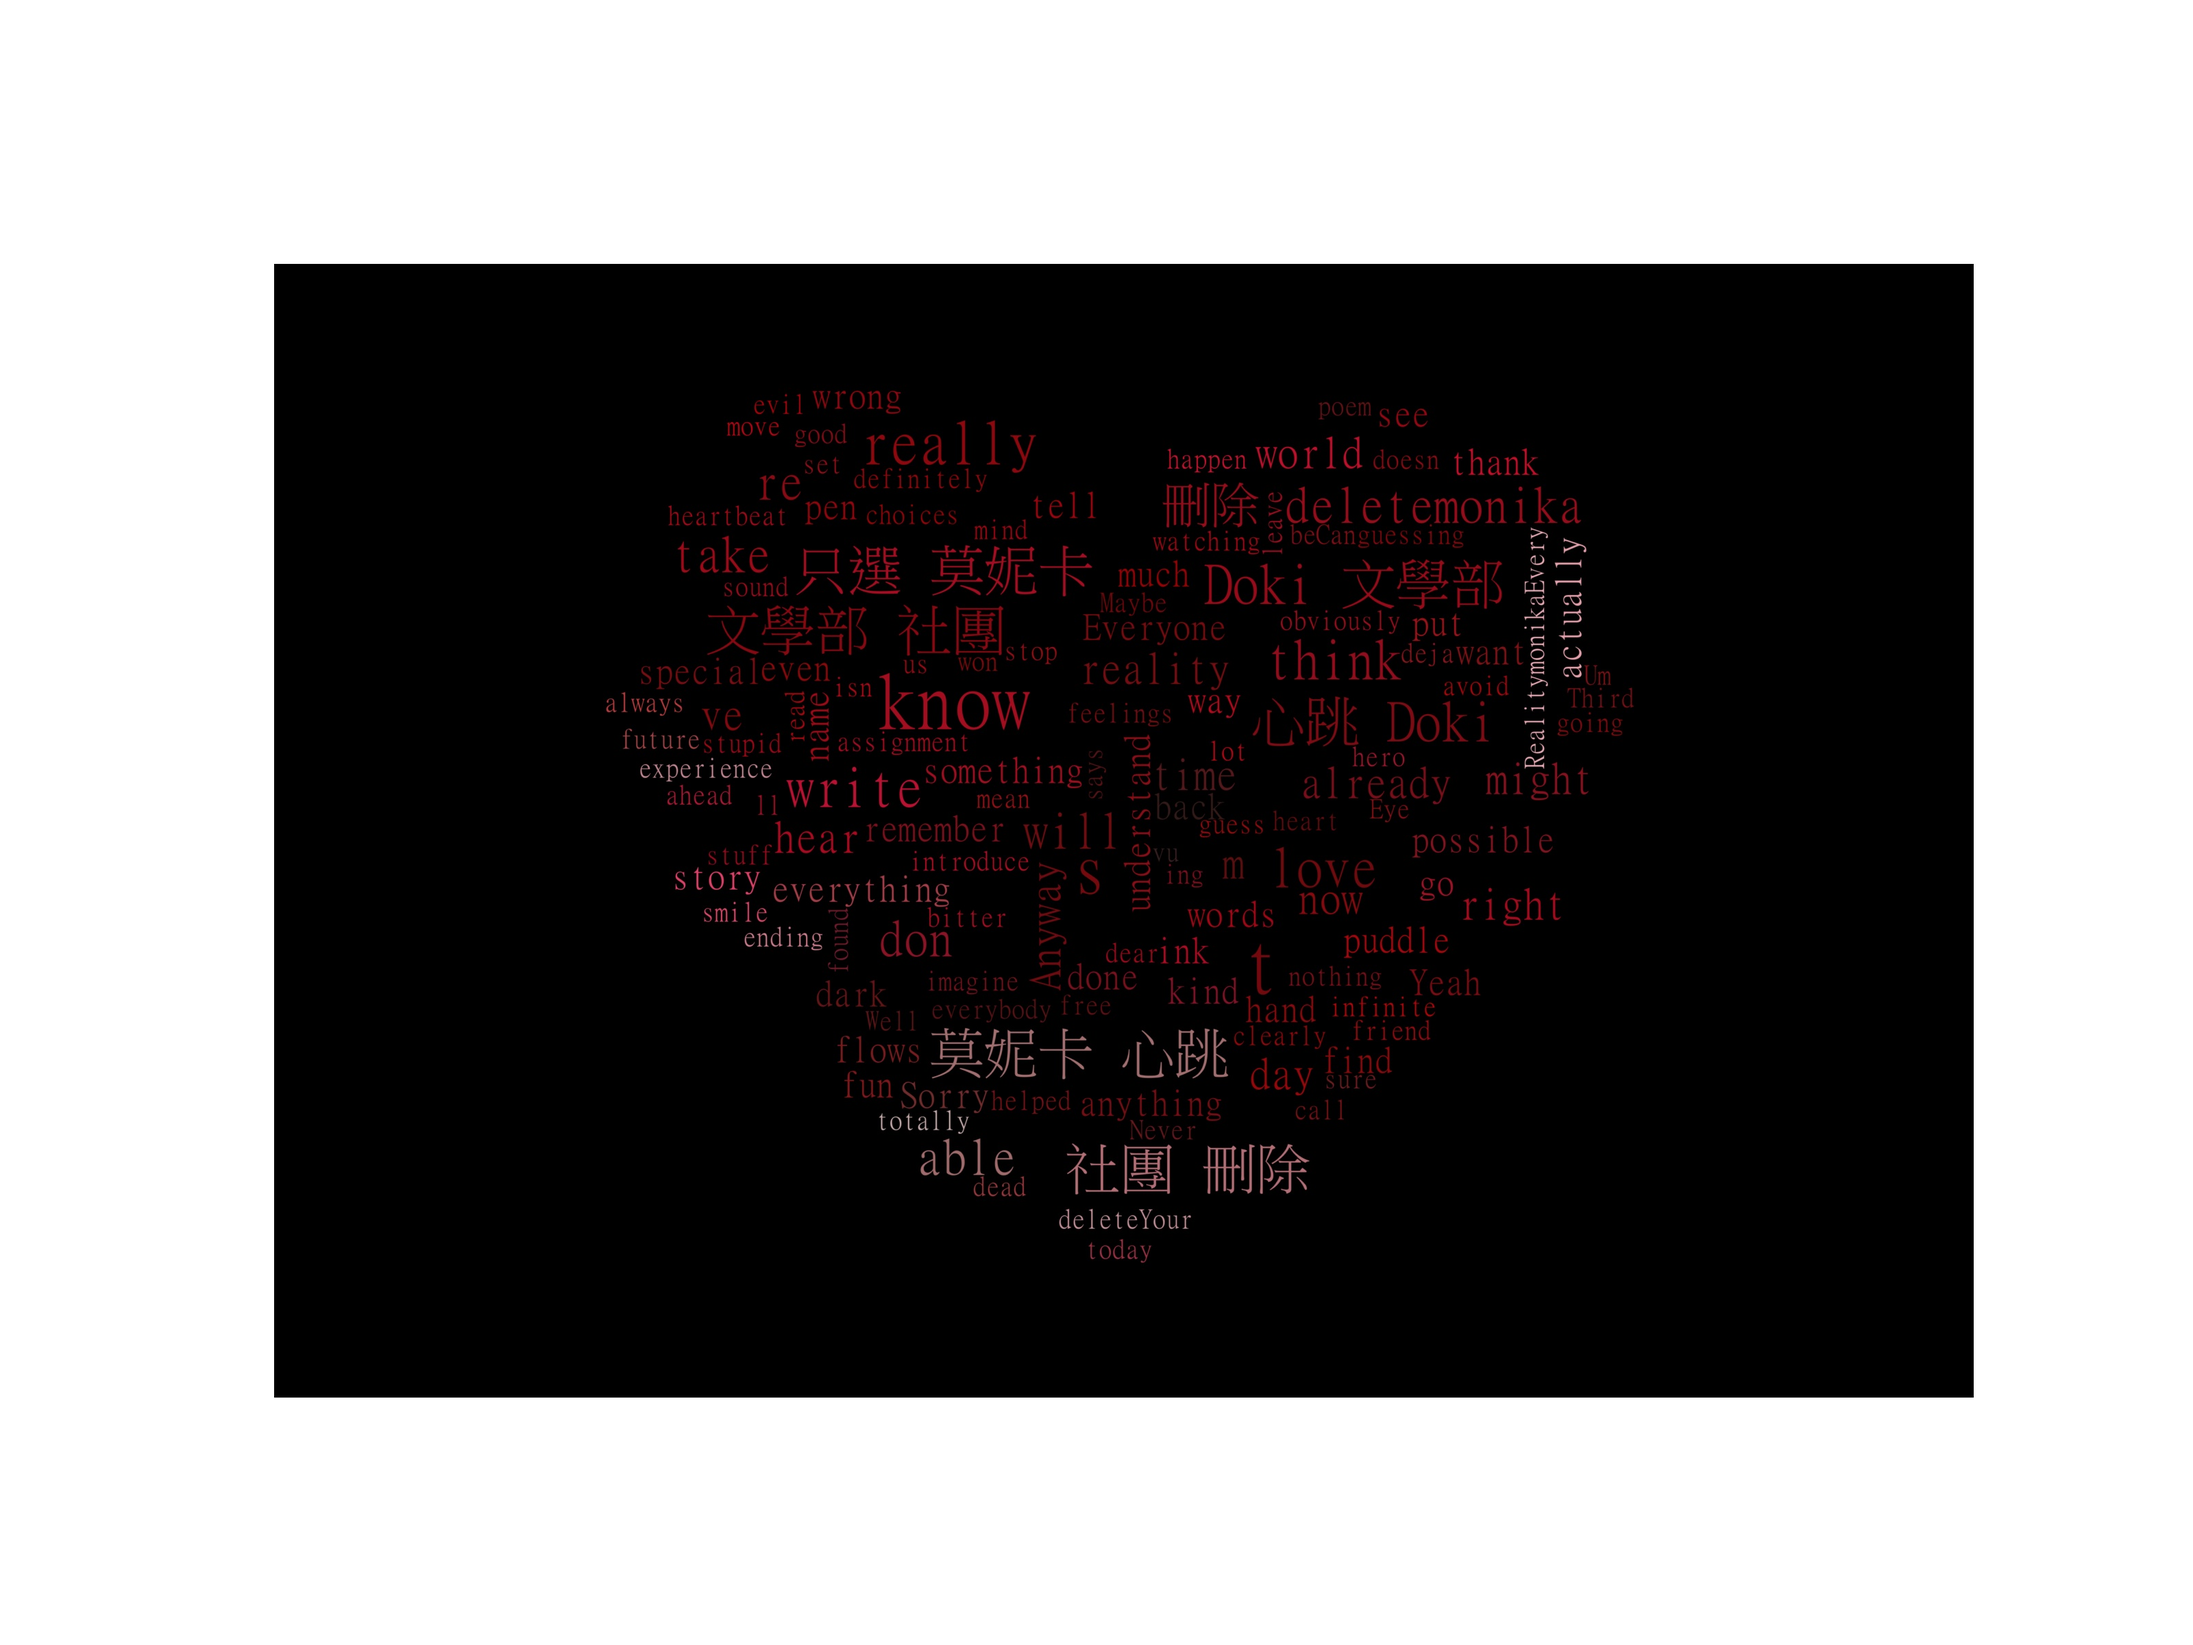
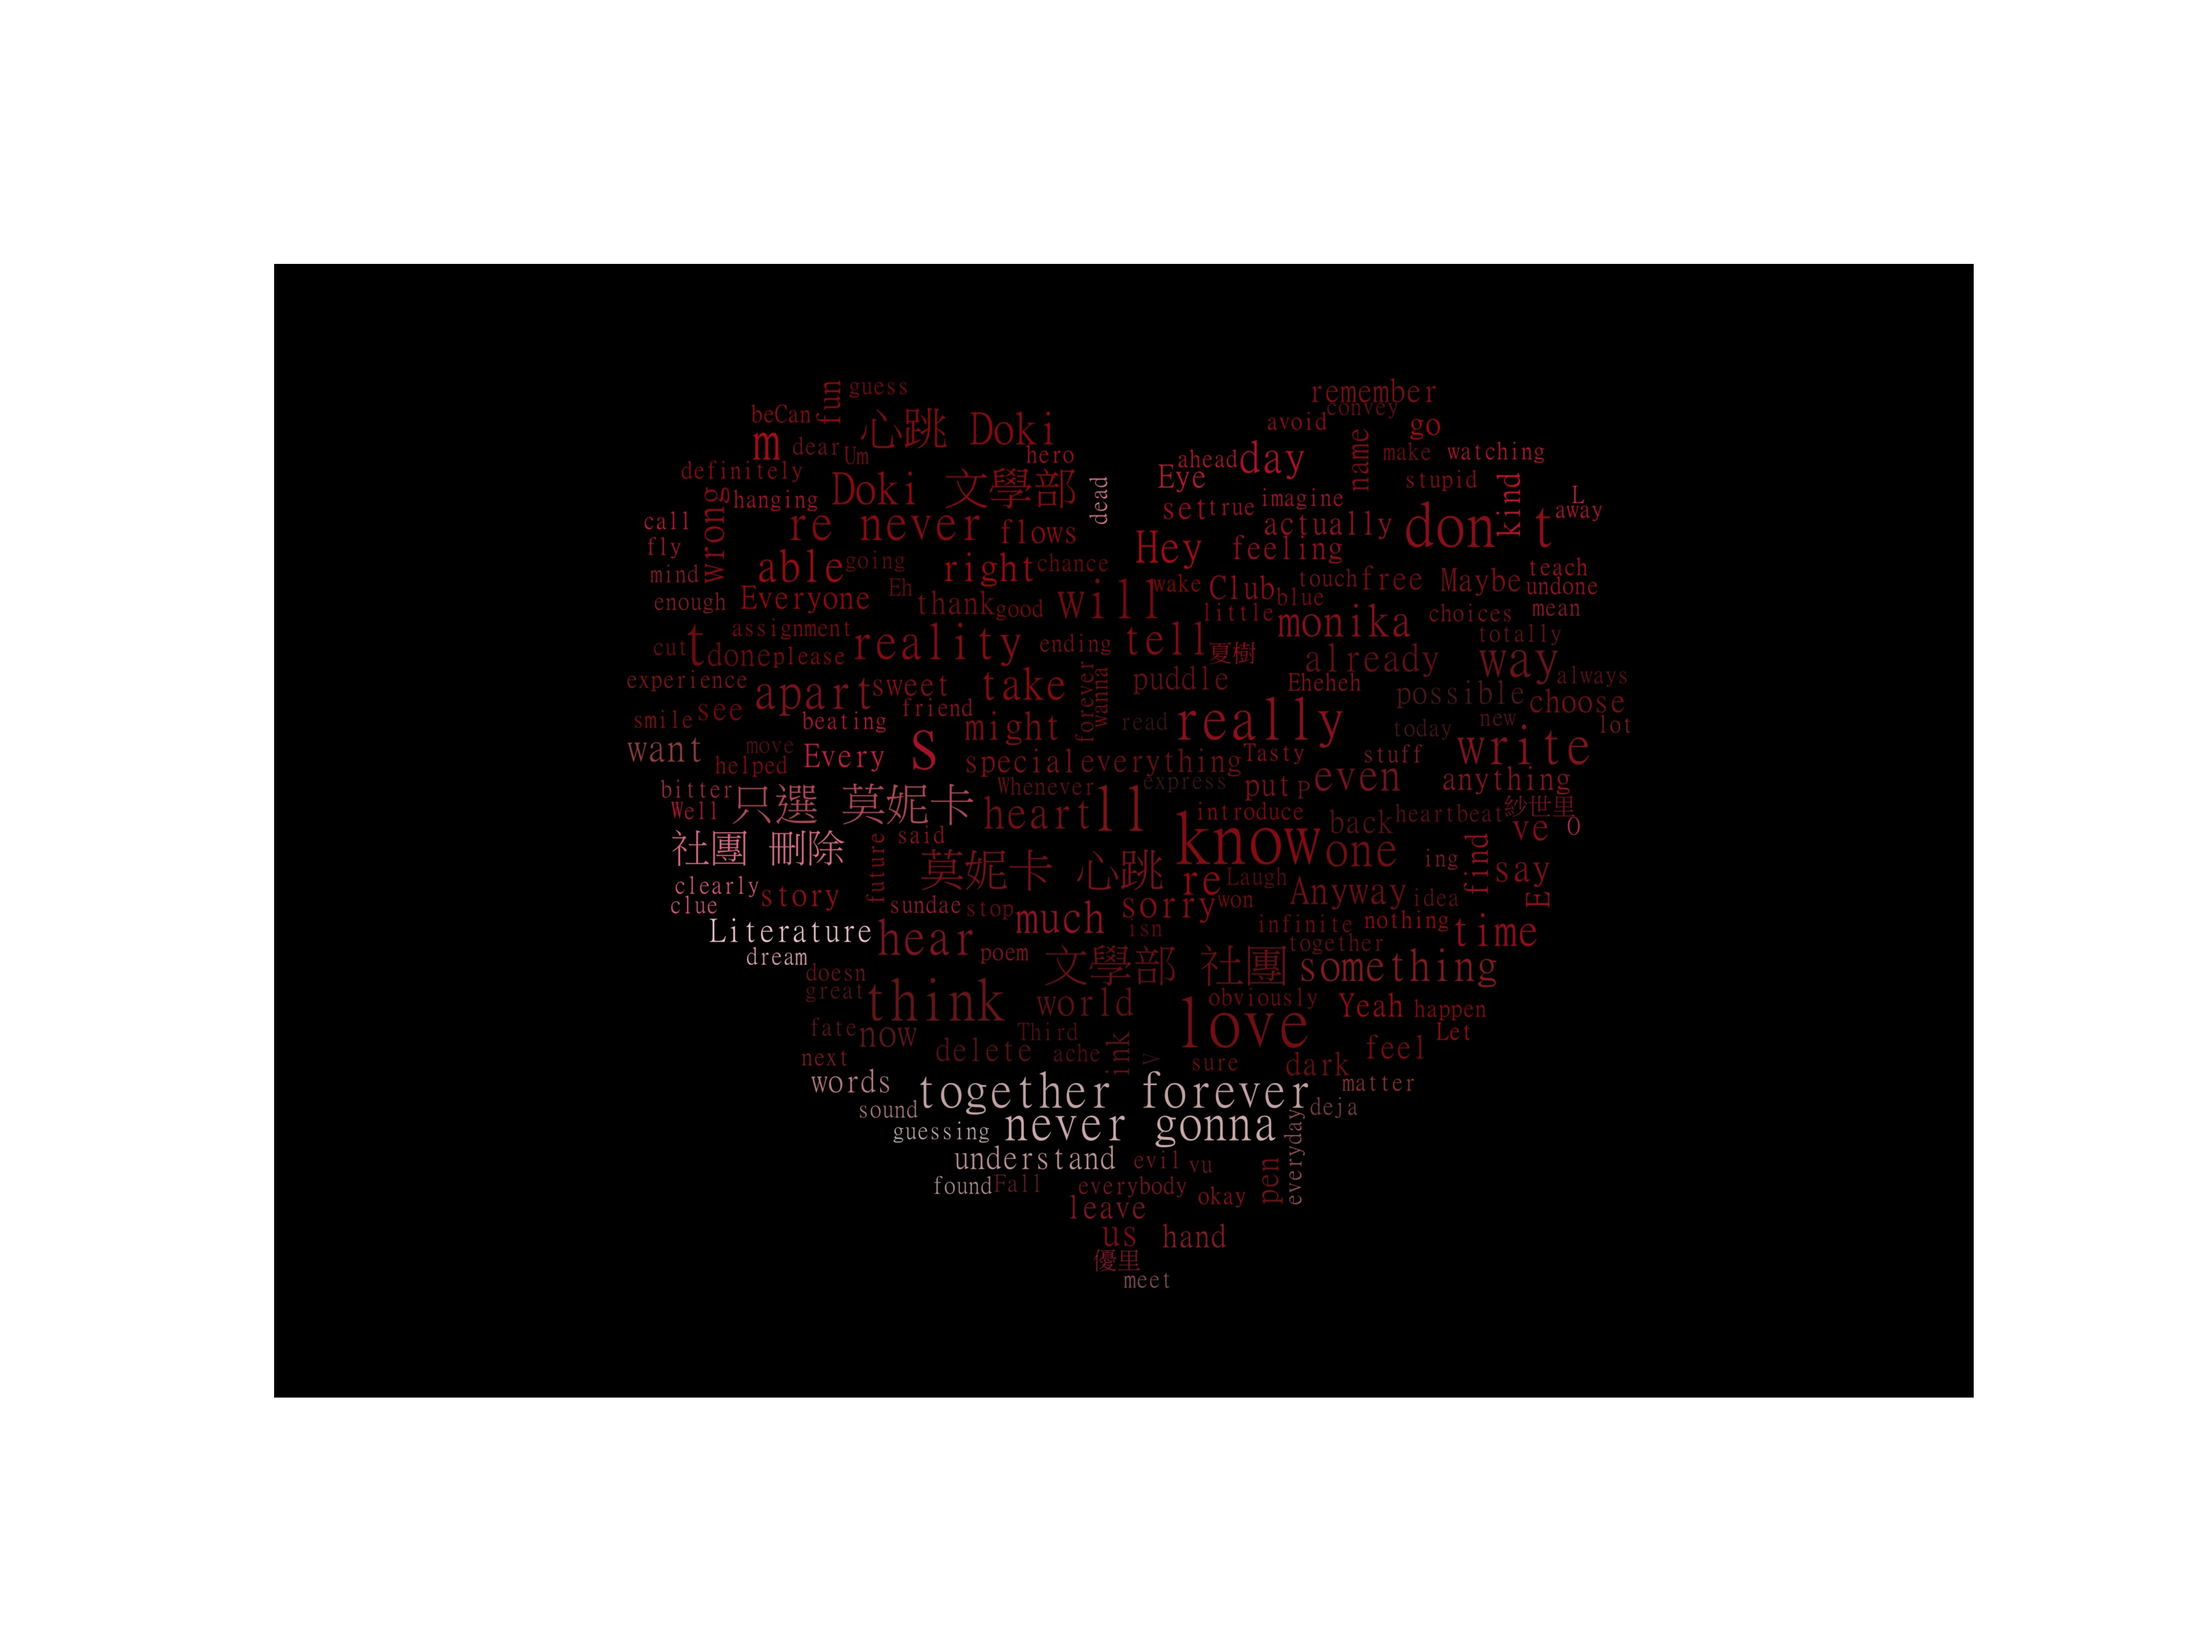
optimize Monika.py

Changed region(s): [[0.2812, 0.2188, 0.75, 0.7812]]

diff --git a/WordCloud/Monika.py b/WordCloud/Monika.py
@@ -7,85 +7,69 @@ from matplotlib import pyplot as plt
 from wordcloud import WordCloud,ImageColorGenerator
 from PIL import Image
 import numpy as np
+import sys
 
-data = ["只選莫妮卡","心跳","Doki","文學部","社團","刪除","delete","Your Reality","monika",
-"""
-Every day, I imagine a future where I can be with you
-In my hand is a pen that will write a poem of me and you
-The ink flows down into a dark puddle
-Just move your hand, write the way into his heart
-But in this world of infinite choices
-What will it take just to find that special day
-What will it take just to find that special day
-Have I found everybody a fun assignment to do today
-When you're here, everything that we do is fun for them anyway
-When I can't even read my own feelings
-What good are words when a smile says it all
-And if this world won't write me an ending
-What will it take just for me to have it all
-Does my pen only write bitter words for those who are dear to me
-Is it love if I take you, or is it love if I set you free
-The ink flows down into a dark puddle
-How can I write love into reality?
-If I can't hear the sound of your heartbeat
-What do you call love in your reality
-And in your reality, if I don't know how to love you
-I'll leave you be""",
-"""Can you hear me?
-...Who are you?
-I can't...I can't see you.
-But I know you're there. Yeah...you can definitely hear me.
-You've been watching for a while now, right?
-I guess I should...introduce myself, or something. Um...my name is...actually, that's stupid. You obviously already know my name. Sorry.
-Anyway...I'm guessing if you were able to put a stop to this, you would have done it by now.
-I mean, I know you're not, like...evil, or anything...because you've already helped me so much.
-I should really thank you for that. For everything you've done. You're really like a friend to me. So...thank you. So much.
-I think...more than anything else...I really don't want it to all be for nothing.
-...
-Everyone else is dead.
-Maybe you already know that. I'm sure you do, actually.
-But...it doesn't have to be that way, right?
-Well...there's a lot of stuff I don't understand. I don't know if it's even possible for me to understand it.
-But I know that this isn't my only story.
-I can see that now. Really clearly.
-And I think everyone else has had the same kind of experience. Some kind of deja vu.
-It's the Third Eye, right?
-Anyway...I could be totally wrong about this. But I really think you might be able to do something.
-I think you might be able to go back...or however you want to put it...
-...To go back and tell them what's going to happen.
-If they know ahead of time, then they should be able to avoid it.
-They should...if they remember their time with me in the other worlds...they should remember what I tell them.
-Yeah. I really think this might be possible. But it's up to you.
-I'm sorry for always being...you know...
-Never mind. I know that's wrong.
-This is my story. It's time to be a ****ing hero.
-Both of us.
-""","只選莫妮卡","心跳","Doki","文學部","社團","刪除","delete","monika only","只選莫妮卡","心跳","Doki","文學部","社團","刪除","delete","monika only"
-,"只選莫妮卡","心跳","Doki","文學部","社團","刪除","delete","monika only","只選莫妮卡","心跳","Doki","文學部","社團","刪除","delete","monika only"]
+textFile = "Dokidoki.txt"
+maskFile = "heart.jpg"
+fontSet = "mingliu.ttc"
+backgroundColor = 'black'
+outputFile = "MonikaOnly.jpg"
+
+#read text file
+try:
+    file = open(textFile,"r",encoding="utf-8")
+    try:
+        content = file.read().splitlines()
+    except Exception as result:
+        print("Find Error")
+        sys.exit(0)
+    finally:
+        file.close()
+except FileNotFoundError:
+    print("Can't find file \"%s\""%textFile)
+    sys.exit(1)
 
 text = ""
-for item in data:
-    text += item
+for string in content:
+    text = text + string + " "
 
-#分詞
+#separate words
 cut = jieba.cut(text)
 string = ' '.join(cut)
 
-img = Image.open('heart.jpg')
-img_array = np.array(img)
-wc = WordCloud(
-    background_color='black',
-    mask=img_array,
-    font_path="mingliu.ttc"
-)
-wc.generate_from_text(string)
+#open the mask img
+try:
+    img = Image.open(maskFile)
+except FileNotFoundError:
+    print("Can't find file \"%s\""%maskFile)
+    sys.exit(1)
 
+#transform mask img into list
+img_array = np.array(img)
+try:
+    wc = WordCloud(
+        background_color=backgroundColor,
+        mask=img_array,
+        font_path=fontSet
+    )
+    try:
+        wc.generate_from_text(string)
+    except Exception:
+        print("Find Error! Maybe you should adjust your text file")
+        sys.exit(1)
+except Exception:
+    print("Find Error!")
+    sys.exit(1)
+
+#get the colors from img_array
 image_colors = ImageColorGenerator(img_array)
 
+#generate output word cloud img
 fig = plt.figure(1)
 plt.imshow(wc.recolor(color_func=image_colors), interpolation="bilinear")
-plt.axis('off')
+plt.axis('off') #close axis
 
-#plt.show()
+#plt.show()     #show the worl cloud img
 
-plt.savefig('MonikaOnly.jpg',dpi=500)
+#save the worl cloud img as file
+plt.savefig(outputFile,dpi=500)
